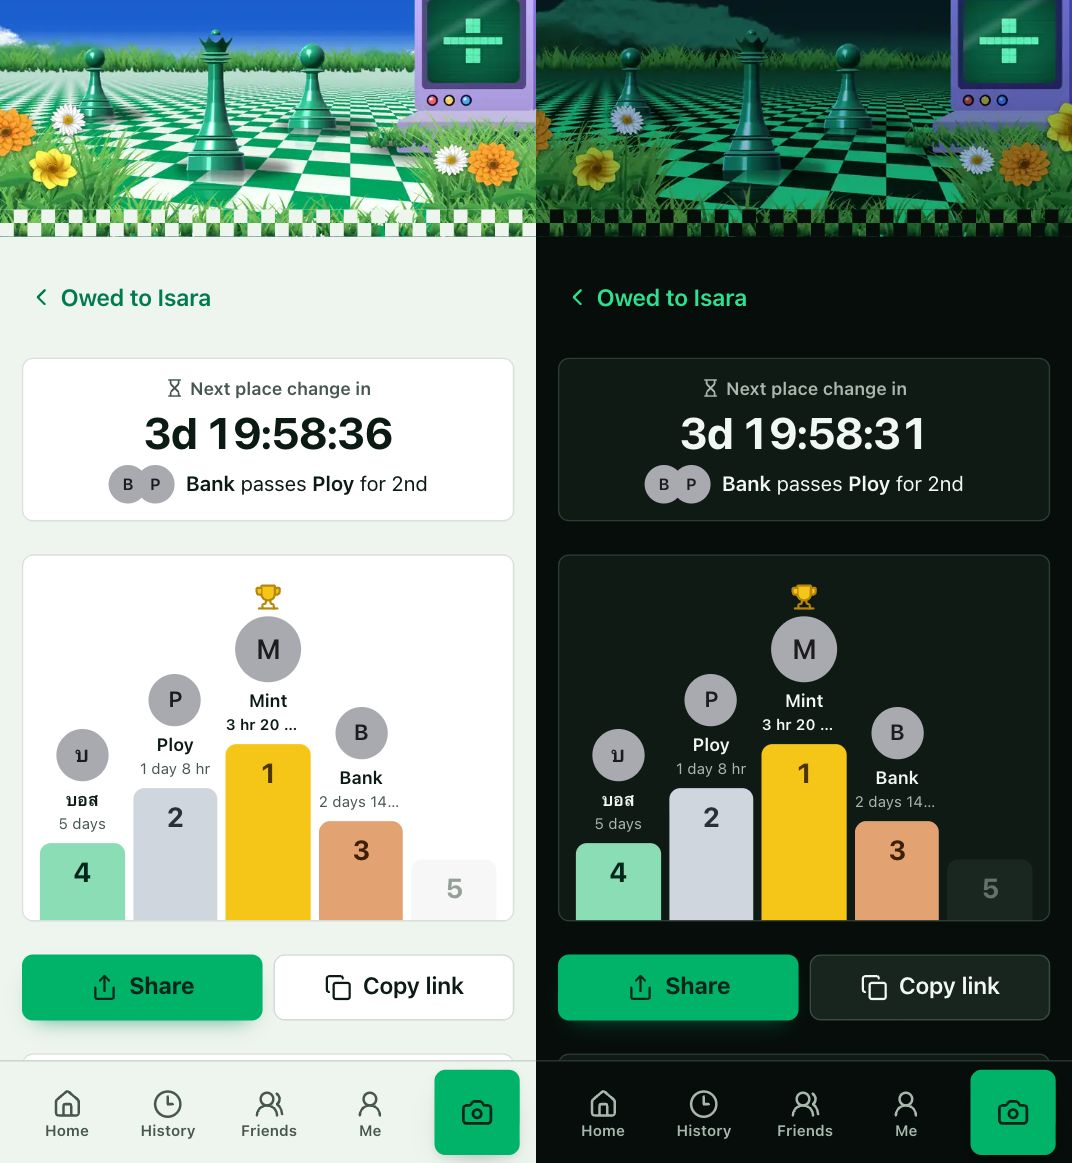
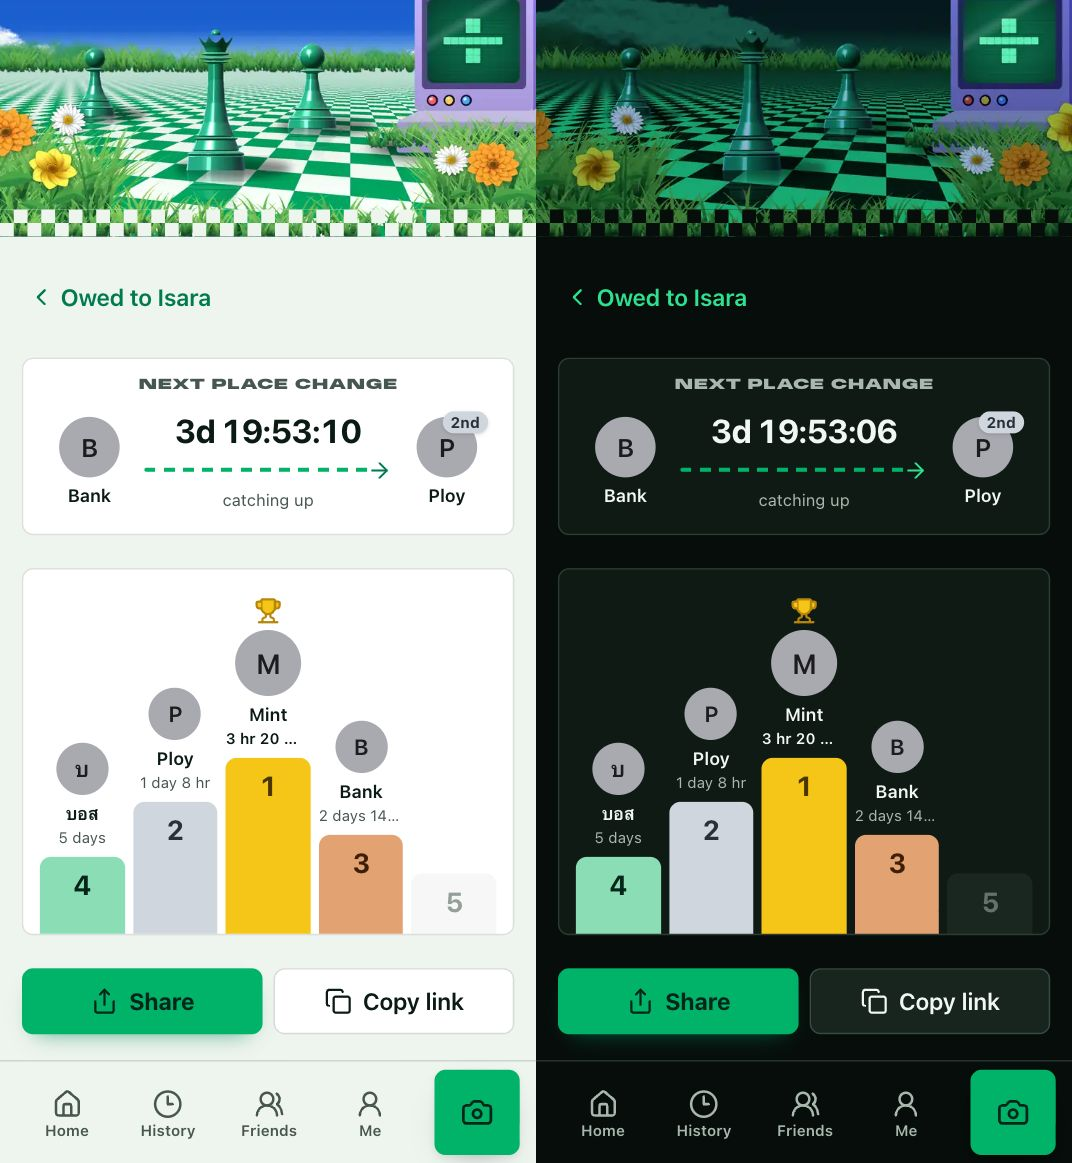
Who pays fastest: Next place change as a race (#50)
The friend below chases the one they're about to pass along a dashed
track, each with their avatar and name, the one being caught wearing
their place badge (in the podium's colour), with the clock ticking down
each second in the middle. Chosen from four styles. README and screenshot.

diff --git a/src/components/FastestNextPass.tsx b/src/components/FastestNextPass.tsx
@@ -1,8 +1,9 @@
 "use client";
 
-import { Hourglass } from "lucide-react";
+import { ArrowRight } from "lucide-react";
 import { useRouter } from "next/navigation";
 import { useEffect, useState } from "react";
+import { PLACE_COLORS } from "@/lib/colors";
 import { langOf } from "@/lib/lang";
 import type { Person } from "@/lib/types";
 import { Avatar, ICON } from "./ui";
@@ -17,12 +18,36 @@ function clock(ms: number): string {
   const hms = `${pad(Math.floor((s % 86_400) / 3600))}:${pad(Math.floor((s % 3600) / 60))}:${pad(s % 60)}`;
   return d > 0 ? `${d}d ${hms}` : hms;
 }
-const ordinal = (n: number) => `${n}${n % 100 >= 11 && n % 100 <= 13 ? "th" : ["th", "st", "nd", "rd"][n % 10] ?? "th"}`;
+const ordinal = (n: number) => `${n}${n % 100 >= 11 && n % 100 <= 13 ? "th" : (["th", "st", "nd", "rd"][n % 10] ?? "th")}`;
+
+/** One racer: avatar and name, the one being caught wearing their place. */
+function Racer({ look, place }: { look: Look; place?: number }) {
+  const color = place ? PLACE_COLORS[place - 1] : undefined;
+  return (
+    <span className="flex w-16 shrink-0 flex-col items-center gap-1">
+      <span className="relative">
+        <Avatar person={look} size={44} />
+        {place && (
+          <span
+            className="absolute -top-1 -right-2 rounded-full px-1.5 text-[11px] font-bold shadow-sm"
+            style={{ background: color?.fill ?? "var(--field)", color: color?.ink ?? "var(--ink)" }}
+          >
+            {ordinal(place)}
+          </span>
+        )}
+      </span>
+      <span className="w-full truncate text-center text-[13px] font-semibold" {...langOf(look.name)}>
+        {look.name}
+      </span>
+    </span>
+  );
+}
 
 /**
- * On top of Who pays fastest: the next place change, ticking down each second ("Bank passes
- * Ploy for 2nd in 3d 19:42:10"). Starts from the server's clock, so the page and the phone
- * agree at first; when it runs out, the page reloads in the new order.
+ * On top of Who pays fastest: the next place change as a race, the friend below chasing the
+ * unpaid one along a track, with a clock ticking down each second. Starts from the server's
+ * clock, so the page and the phone agree at first; when it runs out, the page reloads in the
+ * new order.
  */
 export function FastestNextPass({ at, by, who, place, serverNow }: { at: number; by: Look; who: Look; place: number; serverNow: number }) {
   const router = useRouter();
@@ -39,30 +64,25 @@ export function FastestNextPass({ at, by, who, place, serverNow }: { at: number;
     if (done) router.refresh();
   }, [done, router]);
   return (
-    <section className="card px-4 py-3 text-center" aria-label="Next place change">
-      <p className="flex items-center justify-center gap-1 text-[13px] font-semibold text-ink-2">
-        <Hourglass size={14} {...ICON} aria-hidden /> Next place change {done ? "now" : "in"}
-      </p>
-      {/* Read out once, not every second. */}
-      <p className="mt-0.5 text-[32px] leading-tight font-bold tracking-tight tabular-nums" aria-live="off">
-        {clock(left)}
-      </p>
-      <p className="mt-1 flex items-center justify-center gap-2 text-[15px]">
-        <span className="flex shrink-0 -space-x-2" aria-hidden>
-          <Avatar person={by} size={28} />
-          <Avatar person={who} size={28} />
+    <section className="card px-4 pt-3 pb-4" aria-label={`Next place change: ${by.name} passes ${who.name} for ${ordinal(place)}`}>
+      <p className="section-label text-center">Next place change</p>
+      <div className="mt-3 flex items-center gap-2">
+        <Racer look={by} />
+        <span className="flex min-w-0 flex-1 flex-col items-center">
+          {/* Read out once (in the label), not every second. */}
+          <span className="text-[24px] leading-none font-bold tracking-tight tabular-nums" aria-hidden>
+            {done ? "Now" : clock(left)}
+          </span>
+          <span className="mt-2 flex w-full items-center" aria-hidden>
+            <span className="h-[3px] flex-1 rounded-full bg-[repeating-linear-gradient(90deg,var(--accent-fill)_0_8px,transparent_8px_14px)]" />
+            <ArrowRight size={18} {...ICON} className="-ml-1 text-accent" />
+          </span>
+          <span className="mt-1 text-[12px] text-ink-2" aria-hidden>
+            {done ? "passing now" : "catching up"}
+          </span>
         </span>
-        <span className="min-w-0">
-          <b className="font-semibold" {...langOf(by.name)}>
-            {by.name}
-          </b>{" "}
-          passes{" "}
-          <b className="font-semibold" {...langOf(who.name)}>
-            {who.name}
-          </b>{" "}
-          for {ordinal(place)}
-        </span>
-      </p>
+        <Racer look={who} place={place} />
+      </div>
     </section>
   );
 }

diff --git a/README.md b/README.md
@@ -56,7 +56,7 @@ The link preview friends see in chat:
 **History and the phone**
 - **History**, newest bill date first, with big bills holding their bills; tap a person to see their splits and what they owe you (or you owe them). Tap yourself to see what you spent.
 - **Owed to you:** every friend who still owes you, with their total, their unpaid bills and how long they've waited ("for 16 days", amber after a week). Tick a bill paid (in full or part) right there, or **Mark all paid** for a friend.
-- **Who pays fastest:** its own page (History → Who pays fastest, or from "Owed to you", the shared list, and every bill a friend opens, next to What I owe), with the top five on a podium (gold, silver, bronze, mint and sky, with matching badges in the ranking), on the page and on its link preview. Friends are ranked by how long they take to pay, in days, hours and minutes from when the bill was shared to when they paid: the time printed on their transfer slip when there is one (even a slip sent in after you ticked them; older slips are read again for their time when you open the page), otherwise when you ticked them. A bill they haven't paid counts the time so far, so not paying moves them down. Someone still unpaid has a countdown to when a friend below them passes them ("Bank passes them in 3 days 19 hr"): their average keeps rising while a bill waits, and the page reorders when it runs out. On top, **Next place change** ticks down to the soonest one, second by second ("3d 19:58:36 · Bank passes Ploy for 2nd"). Tap a friend for their average, fastest and slowest payment and every bill: when it was paid and how long it took, or how long it has waited. Ties go A–Z, and it's the same page for you and for anyone with the list. **Share** or **Copy link** sends the page (its preview shows the podium). On your phone, the pencil under a paid bill's amount changes **when someone paid** (say, from your bank statement): it shows how long that makes it, and the slip or tick time it replaces, with **Reset** to go back. **Hide** (only on your phone) leaves chosen friends out, or stops chosen bills counting (say, one you ticked long after it was paid), or sets when a bill really started (for bills shared before 10 Nov 2026, whose share time wasn't kept: **Use receipt times** fills it from the time printed on their receipt photo), in the ranking, the podium and the preview, for everyone. **Show on my bills**, in the same sheet, decides whether friends who open one of your bills get the link to this page (on until you switch it off). A changed start keeps the bill's own time in view under it ("Original: 9 Nov 2026, 13:25"), so you can compare without pressing **Reset**.
+- **Who pays fastest:** its own page (History → Who pays fastest, or from "Owed to you", the shared list, and every bill a friend opens, next to What I owe), with the top five on a podium (gold, silver, bronze, mint and sky, with matching badges in the ranking), on the page and on its link preview. Friends are ranked by how long they take to pay, in days, hours and minutes from when the bill was shared to when they paid: the time printed on their transfer slip when there is one (even a slip sent in after you ticked them; older slips are read again for their time when you open the page), otherwise when you ticked them. A bill they haven't paid counts the time so far, so not paying moves them down. Someone still unpaid has a countdown to when a friend below them passes them ("Bank passes them in 3 days 19 hr"): their average keeps rising while a bill waits, and the page reorders when it runs out. On top, **Next place change** shows the soonest one as a race (Bank chasing Ploy along a track, Ploy wearing their place badge) with a clock ticking down each second ("3d 19:53:10"). Tap a friend for their average, fastest and slowest payment and every bill: when it was paid and how long it took, or how long it has waited. Ties go A–Z, and it's the same page for you and for anyone with the list. **Share** or **Copy link** sends the page (its preview shows the podium). On your phone, the pencil under a paid bill's amount changes **when someone paid** (say, from your bank statement): it shows how long that makes it, and the slip or tick time it replaces, with **Reset** to go back. **Hide** (only on your phone) leaves chosen friends out, or stops chosen bills counting (say, one you ticked long after it was paid), or sets when a bill really started (for bills shared before 10 Nov 2026, whose share time wasn't kept: **Use receipt times** fills it from the time printed on their receipt photo), in the ranking, the podium and the preview, for everyone. **Show on my bills**, in the same sheet, decides whether friends who open one of your bills get the link to this page (on until you switch it off). A changed start keeps the bill's own time in view under it ("Original: 9 Nov 2026, 13:25"), so you can compare without pressing **Reset**.
 - **What I owe:** on a friend's phone, everything they still owe, grouped by who they pay (to the organiser, or to each payer): the bills they've opened, plus the same organisers' other bills they still owe on, also ones whose link they never got. **Pay** lets them tick which bills to pay (or all), with one QR for that total, and one slip pays the ticked bills, oldest first ("Already paid?" at the top uploads a slip straight away). They pick their name once from everyone who still owes in those friends' bills; picking themselves to pay or upload a slip also tells the app.
 - **Who still owes (shareable list):** one link (`/o/…`, with its own preview card) showing everyone who still owes you, A–Z, with all their unpaid bills, how long each has gone unpaid ("Unpaid for 16 days", "9 days ago") and a link to **Who pays fastest**; each person can **Pay** (one QR for their total) or upload a slip there. Copy or share it from "Owed to you".
 - **Friends** page: tap a friend to see their splits. Renaming a friend (or yourself) updates every bill you've shared, old ones too (friends typed into older bills are found by name).
@@ -69,7 +69,7 @@ The link preview friends see in chat:
   <img src="docs/screenshots/owed.jpg" alt="Owed to you, with a link to share the list, light and dark" width="380">
   <img src="docs/screenshots/pays-fastest.jpg" alt="Who pays fastest: the top five on a podium with Share and Copy link, Hide, and each friend's bills with how long they took to pay and a pencil to change it, light and dark" width="380">
   <img src="docs/screenshots/fastest-paid.jpg" alt="When did Mint pay?: the paid time changed from the tick's 20:00 to 13:05, paid after 17 hr, with the original time and Reset, light and dark" width="380">
-  <img src="docs/screenshots/fastest-next.jpg" alt="Who pays fastest: Next place change ticking down on top, above the podium, light and dark" width="380">
+  <img src="docs/screenshots/fastest-next.jpg" alt="Who pays fastest: Next place change on top as a race, Bank chasing Ploy for 2nd with a ticking clock, above the podium, light and dark" width="380">
   <img src="docs/screenshots/fastest-pass.jpg" alt="Who pays fastest: an unpaid friend's countdown to when the friend below passes them, light and dark" width="380">
   <img src="docs/screenshots/fastest-hide.jpg" alt="What counts in Who pays fastest: bills to leave out, when each bill counts from, with the original time under a changed one, and the Show on my bills switch, light and dark" width="380">
   <img src="docs/screenshots/owe.jpg" alt="What I owe on a friend's phone, light and dark" width="380">
